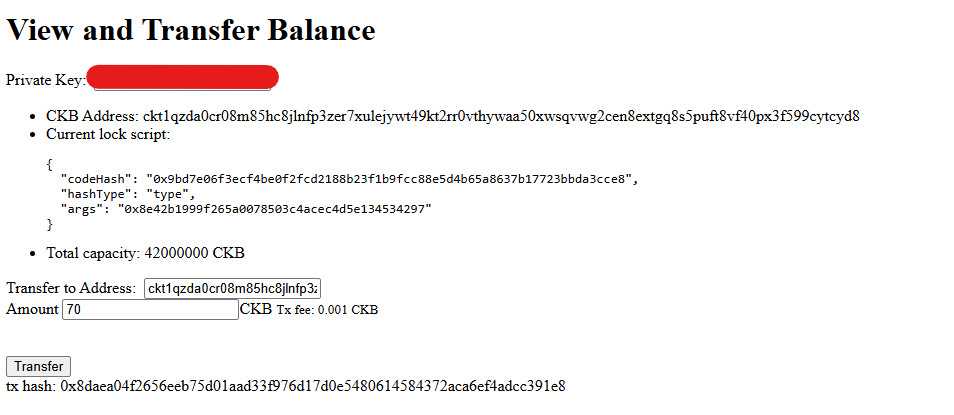
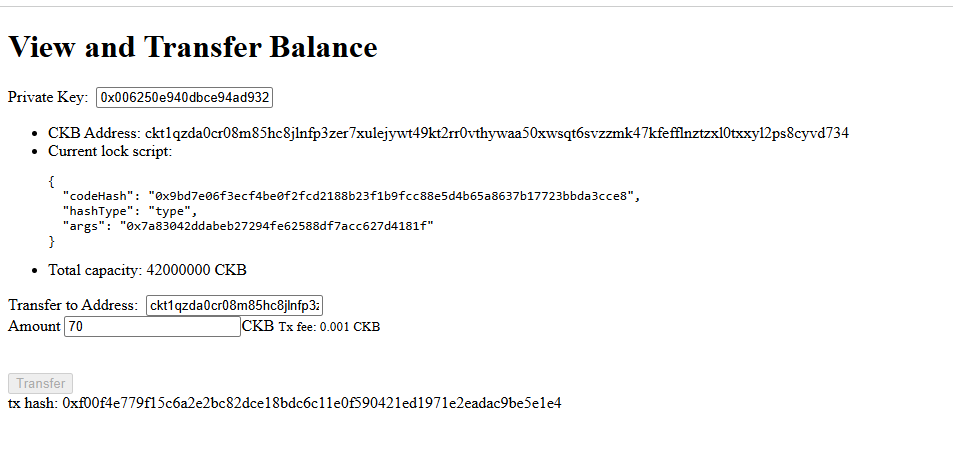
week01 TransferCKB

diff --git a/Week01/2_TransferCKB/Transfer.md b/Week01/2_TransferCKB/Transfer.md
@@ -1,4 +1,3 @@
-
 # Transfer CKB
 
 > A single Cell requires at least 61 bytes of storage, equivalent to [61 CKBytes (CKB)](https://docs.nervos.org/docs/tech-explanation/capacity#capacity-mini). Allocating 62 CKB is recommended to cover additional fees in practice.
@@ -13,10 +12,10 @@
 
 ### 2. Transaction successful and Transaction Hash on Terminal
 
-![img](2_Tranfer_Success.png)![](./2_Tranfer_Success)
+![img](2_Tranfer_Success.png)
 
 ---
 
 ### 3. Verify the transaction on CKB Explorer
 
-![img](3_Transfer_by_cly.png)![](
+![img](3_Transfer_by_cly.png)
